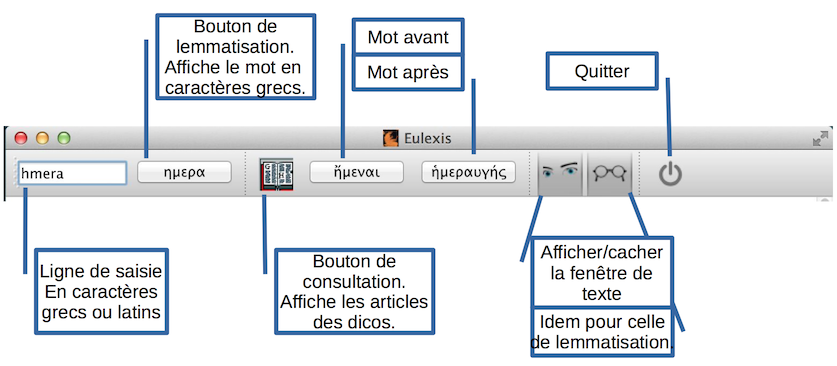
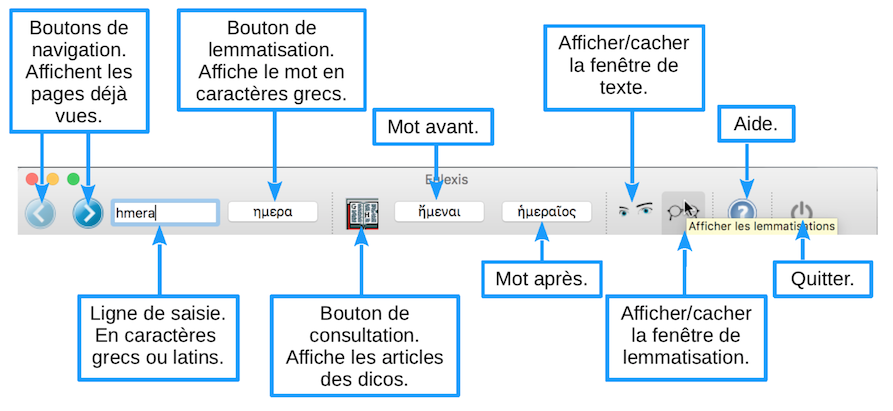
Ajout de boutons de navigation pour revoir les articles de dico déjà consultés.

diff --git a/Aide_Eulexis/consulter.html b/Aide_Eulexis/consulter.html
@@ -18,13 +18,13 @@ suivant : <a href="lemmatiser.html">Fenêtre de lemmatisation</a></p>
 
 <h1>Fenêtre de consultation</h1>
 
-<p>Eulexis se présente comme beaucoup de programmes avec une fenêtre principale qui sert à consulter les dictionnaires. La barre d'outils regroupe les actions que l'on peut effectuer. Lorsqu'on arrête le curseur sur un bouton de la barre d'outils, une bulle d'aide donne quelques indications sur la fonction du bouton.</p>
+<p>Eulexis se présente comme beaucoup de programmes avec une fenêtre principale. Ici, elle sert à consulter les dictionnaires. La barre d'outils regroupe les actions que l'on peut effectuer. Lorsqu'on arrête le curseur sur un bouton de la barre d'outils, une bulle d'aide donne quelques indications sur la fonction du bouton.</p>
 
 <p><img src="Principale.png" alt="Fenêtre principale" /></p>
 
 <h2>Saisie</h2>
 
-<p>La ligne de saisie (le cadre blanc tout à gauche, qui contient ici <em>hmera</em>) permet d'écrire le mot qui nous intéresse. On peut le saisir en caractères grecs ou en caractères latins. Dans cette fenêtre, la validation (par le touche « Entrée ») de la saisie déclenche la consultation des dictionnaires.  Au cours de la frappe, le mot apparaît en caractères grecs <em>ημερα</em> dans le bouton qui est situé immédiatement à droite du cadre de saisie. Cela permet de vérifier, en particulier, que l'on utilise la bonne lettre pour représenter le caractère grec que l'on veut obtenir. Ce bouton sert aussi à lemmatiser le mot.</p>
+<p>La ligne de saisie (le cadre blanc à gauche, qui contient ici <em>hmera</em>) permet d'écrire le mot qui nous intéresse. On peut le saisir en caractères grecs ou en caractères latins. Dans cette fenêtre, la validation (par la touche « Entrée ») de la saisie déclenche la consultation des dictionnaires. Au cours de la frappe, le mot apparaît en caractères grecs <em>ημερα</em> dans le bouton qui est situé immédiatement à droite du cadre de saisie. Cela permet, en particulier, de vérifier qu'on utilise la bonne lettre pour représenter le caractère grec qu'on veut obtenir. Ce bouton sert aussi à lemmatiser le mot (<a href="lemmatiser.html">voir la page suivante</a>).</p>
 
 <h3>Caractères de substitution</h3>
 <p>Lorsqu'on ne connaît pas le mot exact que l'on cherche, on peut utiliser des caractères de substitution. Eulexis en connaît deux : l'astérisque <strong>*</strong> et le point d'interrogation <strong>?</strong> pour représenter n'importe quels caractères. La différence entre les deux est que le <strong>?</strong> remplace un caractère et un seul, alors que l'<strong>*</strong> remplace un nombre arbitraire de caractères (éventuellement nul). Ces caractères de substitution ne fonctionnent que lors d'une saisie en caractères latins. Le temps nécessaire pour faire la recherche et afficher le résultat peut être augmenté. Nous avons mis quelques limitations à l'utilisation de ces caractères.
@@ -69,11 +69,13 @@ suivant : <a href="lemmatiser.html">Fenêtre de lemmatisation</a></p>
 
 <h2>Navigation</h2>
 
+<p>On a tout à gauche les deux boutons de navigation habituels. La flèche vers la gauche permet d'afficher les pages qui ont été consultées précédemment. Quand on est remonté dans l'historique, la flèche vers la droite devient active et permet de revenir jusqu'à la dernière page consultée. Les flèches sont inactives quand on a atteint l'extrémité correspondante de l'historique. Comme pour tous les navigateurs, quand on est remonté dans le passé et qu'on fait une nouvelle requête, une partie de l'historique d'origine est perdue.</p>
+
 <p>Le groupe de trois boutons au centre est spécifique de la consultation des dictionnaires. Le bouton représentant un livre ouvert permet d'ouvrir les dictionnaires. Il est donc équivalent à la validation de la ligne de saisie. Les deux boutons qui suivent servent à « feuilleter » les dictionnaires en donnant le mot qui précède et celui qui suit le dernier article consulté (ici <em>ἤμεναι</em> et <em>ἡμεραυγής</em>). Le choix des <strong>dictionnaires affichés</strong> se fait dans le menu “Dicos”. Dans le résultat de la consultation, on retrouve plusieurs fois une <em>ligne de liens</em> qui permet de naviguer dans la page en allant directement à l'article du Bailly, par exemple, ou de consulter l'article qui précède ou suit dans chaque dictionnaire. Dans l'exemple ci-dessus, les trois dictionnaires ne proposent pas les mêmes mots (mais ce n'est pas toujours le cas).</p>
 
 <p><img src="barre_dic.png" alt="Outils Fen Principale" /></p>
 
-<p>Les trois boutons de droite servent à afficher les fenêtres supplémentaires, respectivement pour <a href="texte.html">le texte</a> et <a href="lemmatiser.html">la lemmatisation</a>, et à quitter le programme.</p>
+<p>Les quatre boutons de droite servent à afficher les fenêtres supplémentaires, respectivement pour <a href="texte.html">le texte</a> et <a href="lemmatiser.html">la lemmatisation</a>, à ouvrir les pages d'aides dans le navigateur et à quitter le programme.</p>
 
 <p>précédent : <a href="anatomie.html">présentation</a>
 &nbsp;&nbsp;&nbsp;&nbsp;&nbsp;

diff --git a/src/mainwindow.cpp b/src/mainwindow.cpp
@@ -149,6 +149,8 @@ MainWindow::MainWindow(QWidget *parent)
     readSettings();
 //    _second->show();
     dSetUp();
+    _histItem = 0;
+    _historique.clear();
     _lineEdit->setFocus();
 }
 
@@ -339,6 +341,12 @@ void MainWindow::createW()
     quitAct->setStatusTip(tr("Quitter l'application"));
     actionConsulter =
         new QAction(QIcon(":/res/dicolitt.svg"), tr("Consulter"), this);
+    actionBackward =
+        new QAction(QIcon(":/res/Gauche.svg"), tr("Revenir"), this);
+    actionBackward->setDisabled(true);
+    actionForward =
+        new QAction(QIcon(":/res/Droite.svg"), tr("Avancer"), this);
+    actionForward->setDisabled(true);
 
     fenCons = new QAction(QIcon(":/res/dicolitt.svg"), tr("Fenêtre de consultation"), this);
     fenLem = new QAction(QIcon(":/res/syntaxe.svg"), tr("Fenêtre de lemmatisation"), this);
@@ -492,6 +500,8 @@ void MainWindow::createW()
     mainToolBar->addAction(zoomAct);
     mainToolBar->addAction(deZoomAct);
     */
+    mainToolBar->addAction(actionBackward);
+    mainToolBar->addAction(actionForward);
     mainToolBar->addWidget(_lineEdit);
     mainToolBar->addWidget(_lemmatiser);
 //    mainToolBar->addWidget(_beta);
@@ -626,6 +636,8 @@ void MainWindow::connecter()
     connect(_lemmatiser, SIGNAL(pressed()), this, SLOT(lemmatiser()));
     connect(_lemmatiser2, SIGNAL(pressed()), this, SLOT(lemmatiser()));
     connect(actionConsulter, SIGNAL(triggered()), this, SLOT(consulter()));
+    connect(actionBackward, SIGNAL(triggered()), this, SLOT(backward()));
+    connect(actionForward, SIGNAL(triggered()), this, SLOT(forward()));
     connect(_avant, SIGNAL(clicked()), this, SLOT(avance()));
     connect(_apres, SIGNAL(clicked()), this, SLOT(recule()));
 
@@ -973,9 +985,46 @@ void MainWindow::recule()
     consulter(_apres->text());
 }
 
-void MainWindow::consulter(QString f)
+void MainWindow::backward()
+{
+    if (_histItem < _historique.size() - 1)
+    {
+        _histItem++;
+        consulter(_historique[_histItem],false);
+        actionForward->setDisabled(false);
+        if (_histItem == _historique.size() - 1) actionBackward->setDisabled(true);
+        else actionBackward->setDisabled(false);
+    }
+}
+
+void MainWindow::forward()
+{
+    if (_histItem > 0)
+    {
+        _histItem--;
+        consulter(_historique[_histItem], false);
+        actionBackward->setDisabled(false);
+        if (_histItem == 0) actionForward->setDisabled(true);
+        else actionForward->setDisabled(false);
+    }
+}
+
+void MainWindow::consulter(QString f, bool ajoute)
 {
     if (f.isEmpty()) f = _lineEdit->text().toLower();
+    if (ajoute)
+    {
+        if (_histItem > 0)
+            for (int i = 0; i < _histItem; i++)
+                _historique.removeFirst();
+        // Si je suis dans l'historique et que je fais une nouvelle consultation,
+        // je dois effacer ce que j'avais fait après la page présente.
+        _historique.prepend(f);
+        _histItem = 0;
+        actionForward->setDisabled(true);
+        if (_historique.size() > 1)
+            actionBackward->setDisabled(false);
+    }
     if (f.isEmpty()) return;
     _txtEdit->clear();
     QStringList donnees;
@@ -1313,7 +1362,7 @@ void MainWindow::suivreLien(QUrl url)
         QToolTip::showText(_txtEdit->cursor().pos(), lien.mid(1).trimmed(), this);
     }
 
-    else
+    else if (lien.contains("//aller/"))
     {
         lien = lien.mid(13);
         lien.replace("%7C","|");

diff --git a/src/lemmatiseur.cpp b/src/lemmatiseur.cpp
@@ -1467,6 +1467,10 @@ QStringList Lemmat::consAbrBailly(QString f)
         article.replace("\\n\\n","<br />\n");
         article.replace("\\n","<br />\n");
         article.replace("\u00a0","&nbsp;"); // l'espace insécable
+        article.replace(" ;","&nbsp;;"); // Une espace insécable avant ;
+        article.replace(" :","&nbsp;:"); // Une espace insécable avant :
+        article.replace(" ?","&nbsp;?"); // Une espace insécable avant ?
+        article.replace(" !","&nbsp;!"); // Une espace insécable avant !
 //        qDebug() << article;
         int p = article.indexOf("<i><b>Moy.</b></i>");
         if (article.mid(p-1,1) != "\n") article.insert(p,"<br />\n");
@@ -1509,7 +1513,10 @@ QStringList Lemmat::consBailly(QString f)
         article.replace("\\n\\n","<br/>\n");
 //        article.replace("'","’");
         article.replace("\u00a0","&nbsp;"); // l'espace insécable
-//        article.replace(" ;","\u202F;"); // Une espace insécable étroite
+        article.replace(" ;","&nbsp;;"); // Une espace insécable avant ;
+        article.replace(" :","&nbsp;:"); // Une espace insécable avant :
+        article.replace(" ?","&nbsp;?"); // Une espace insécable avant ?
+        article.replace(" !","&nbsp;!"); // Une espace insécable avant !
 //        qDebug() << article;
 //        int p = article.indexOf("<i><b>Moy.</b></i>");
 //        if (article.mid(p-1,1) != "\n") article.insert(p,"<br/>\n");
@@ -1549,7 +1556,7 @@ QStringList Lemmat::consPape(QString f)
         // Les 3 premiers éléments donnent le mot avant, le mot après et les liens.
         QString article = res[i];
         article.replace("\t"," "); // le tab
-        article.replace("\u00a0"," "); // l'espace insécable
+        article.replace("=\u00a0","= "); // l'espace insécable
         if (article.contains("s.") || article.contains("=") || article.contains("vlg.") || article.contains(". für "))
         {
             // Il y a probablement des renvois
@@ -1733,6 +1740,7 @@ QString Lemmat::lierRenvois(QString article, QString renvoi)
             // Est-il dans le dico ?
             QStringList llem = _LSJindex.values(nettoie(mot));
             if (llem.isEmpty()) llem = _PapeIndex.values(nettoie(mot));
+            if (llem.isEmpty()) llem = _BaillyIndex.values(nettoie(mot));
             if (!llem.isEmpty())
             {
                 QString ajout = "<a href='http://aller/" + uni2betacode(mot) + "'>";

diff --git a/src/mainwindow.h b/src/mainwindow.h
@@ -72,6 +72,8 @@ private:
     QAction *actionBOM;
     QAction *actionA_propos;
     QAction *actionConsulter;
+    QAction *actionBackward;
+    QAction *actionForward;
     QAction *deZoomAct;
     QAction *zoomAct;
     QAction *LSJ;
@@ -126,6 +128,8 @@ private:
     void createTrois();
     void connecter();
     QString _entete; // Pour l'entête HTML avec style.
+    QStringList _historique; // Pour conserver les mots consultés
+    int _histItem; // Pour naviguer dans la liste précédente
 
     QStringList _msg;
     bool _changements;
@@ -162,7 +166,7 @@ private slots:
     void valider();
     void actualiser();
     void actualiser2();
-    void consulter(QString f = "");
+    void consulter(QString f = "", bool ajoute = true);
     void majA();
     void majAB(); // Pour l'abrégé du Bailly
     void majB(); // Pour le Bailly 2020
@@ -172,6 +176,8 @@ private slots:
     void majT();
     void avance();
     void recule();
+    void forward();
+    void backward();
     void suivreLien(QUrl url);
     void montrer();
     void montrer3();
